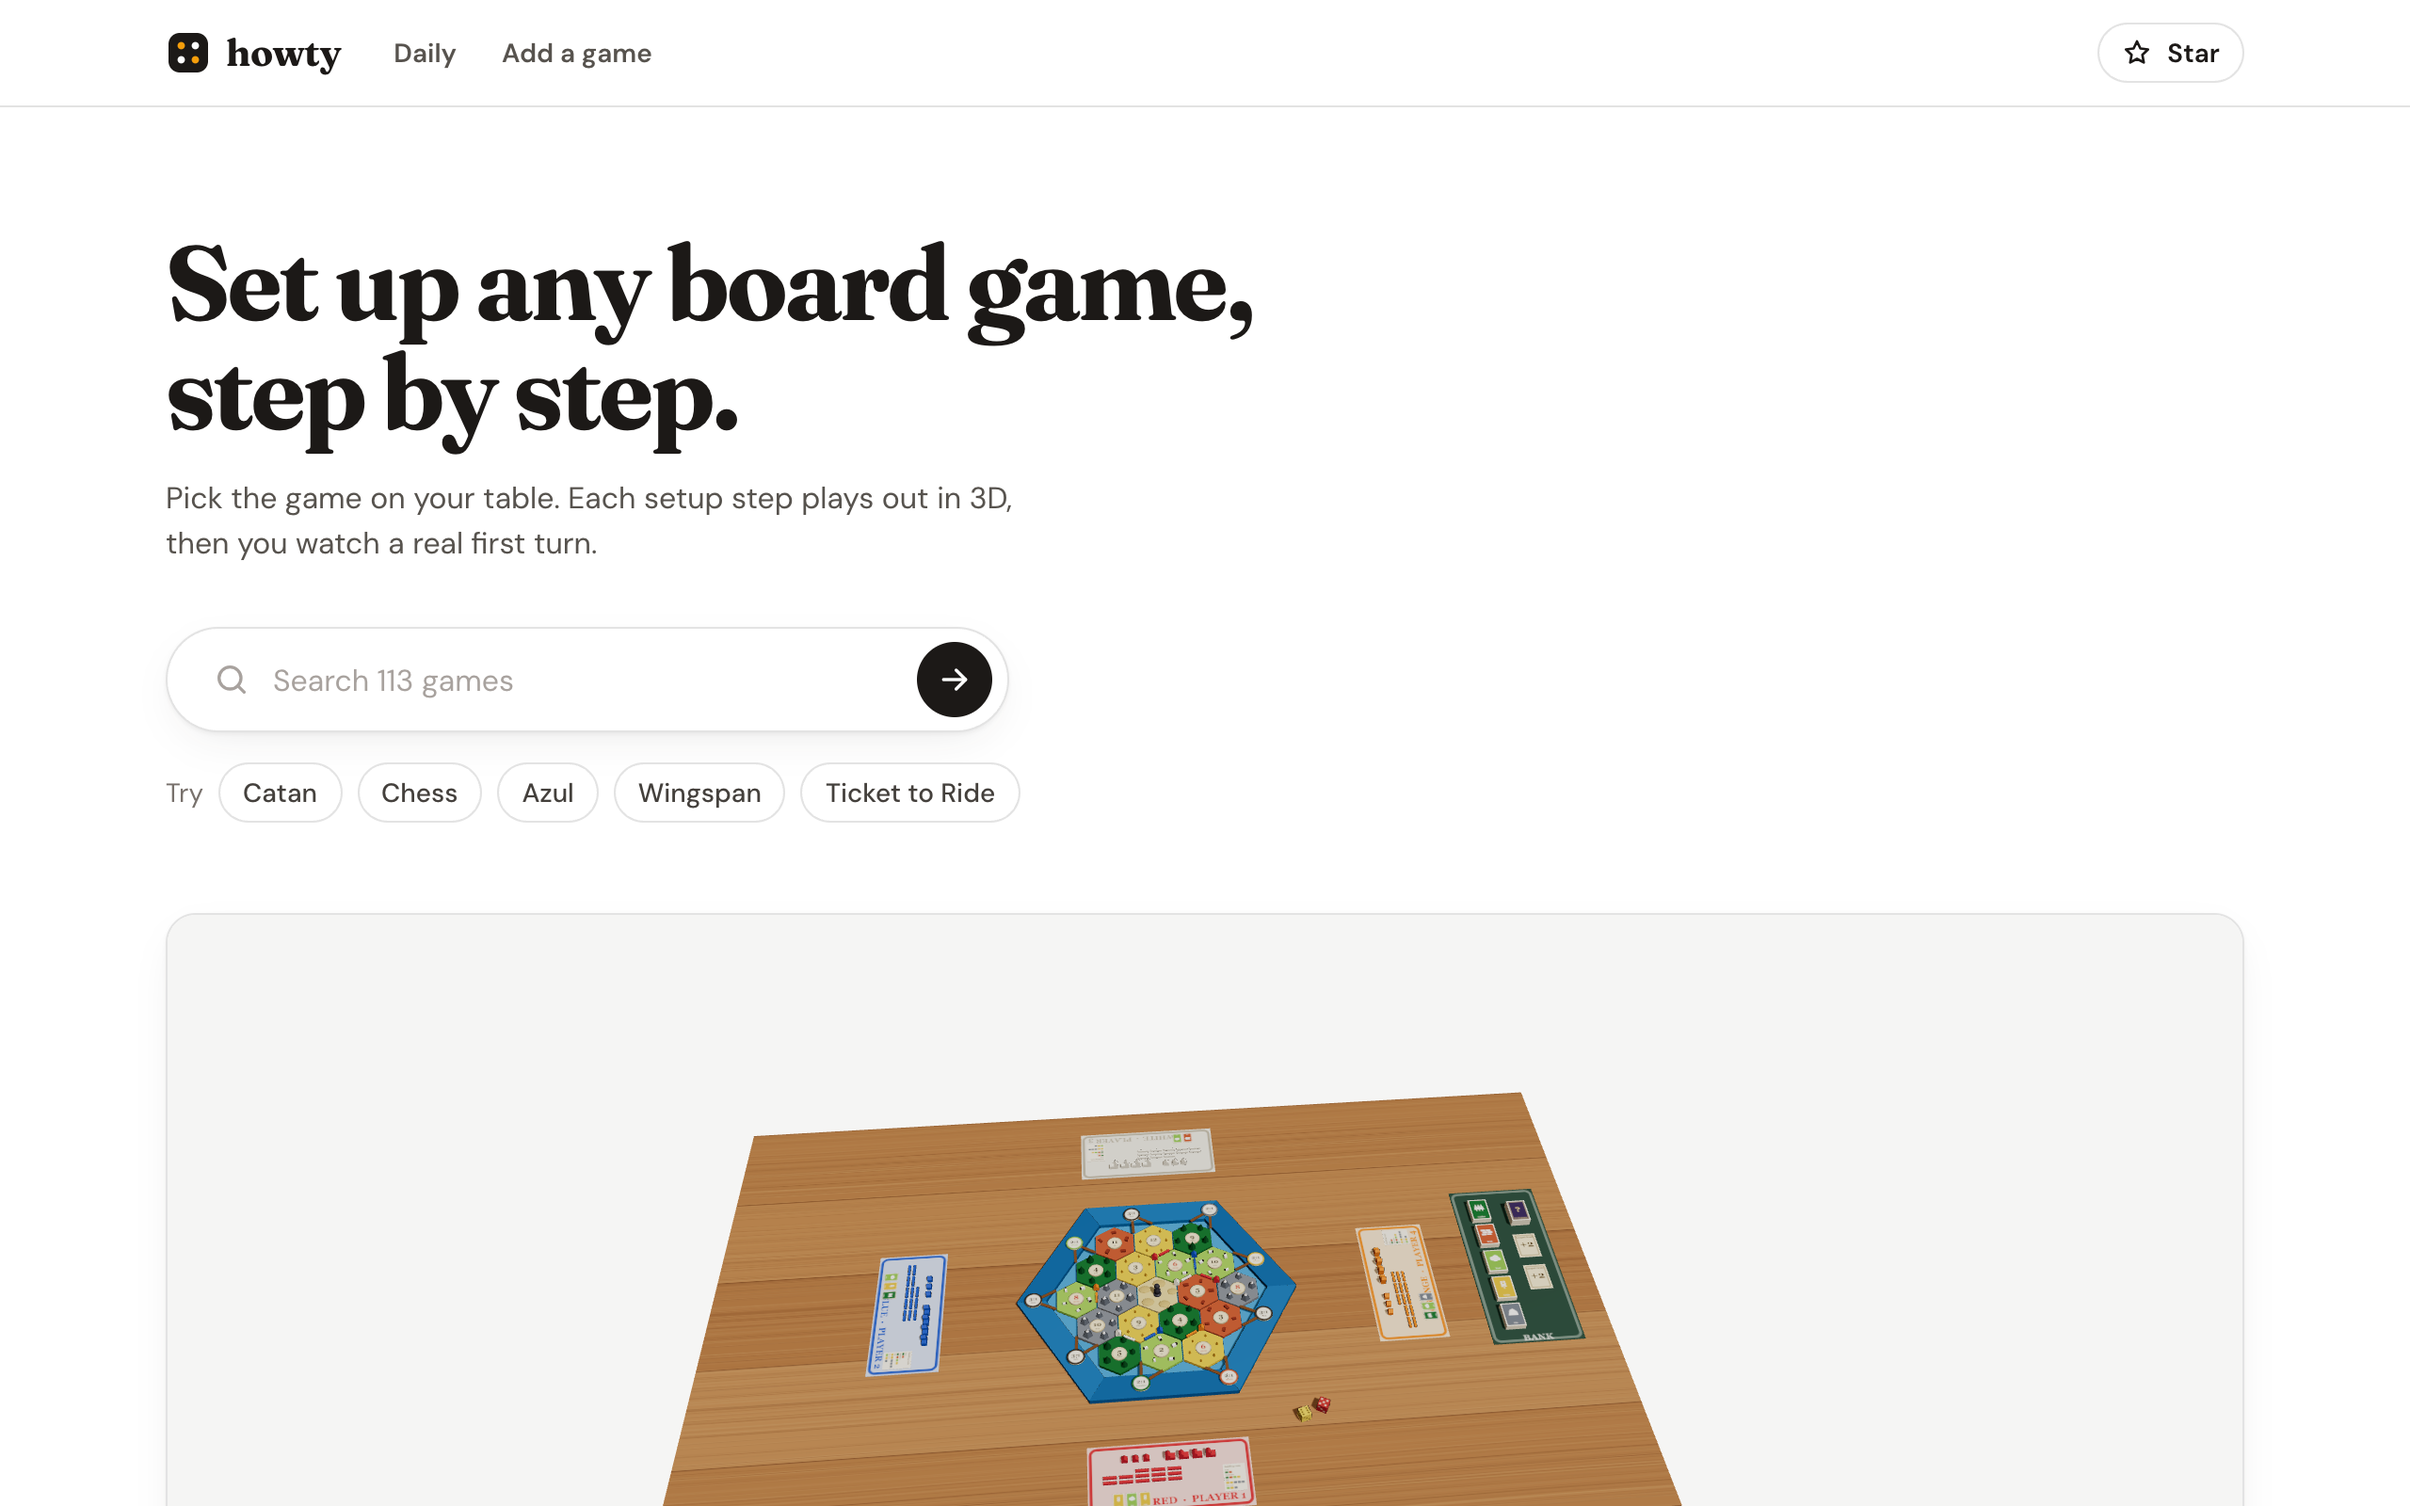
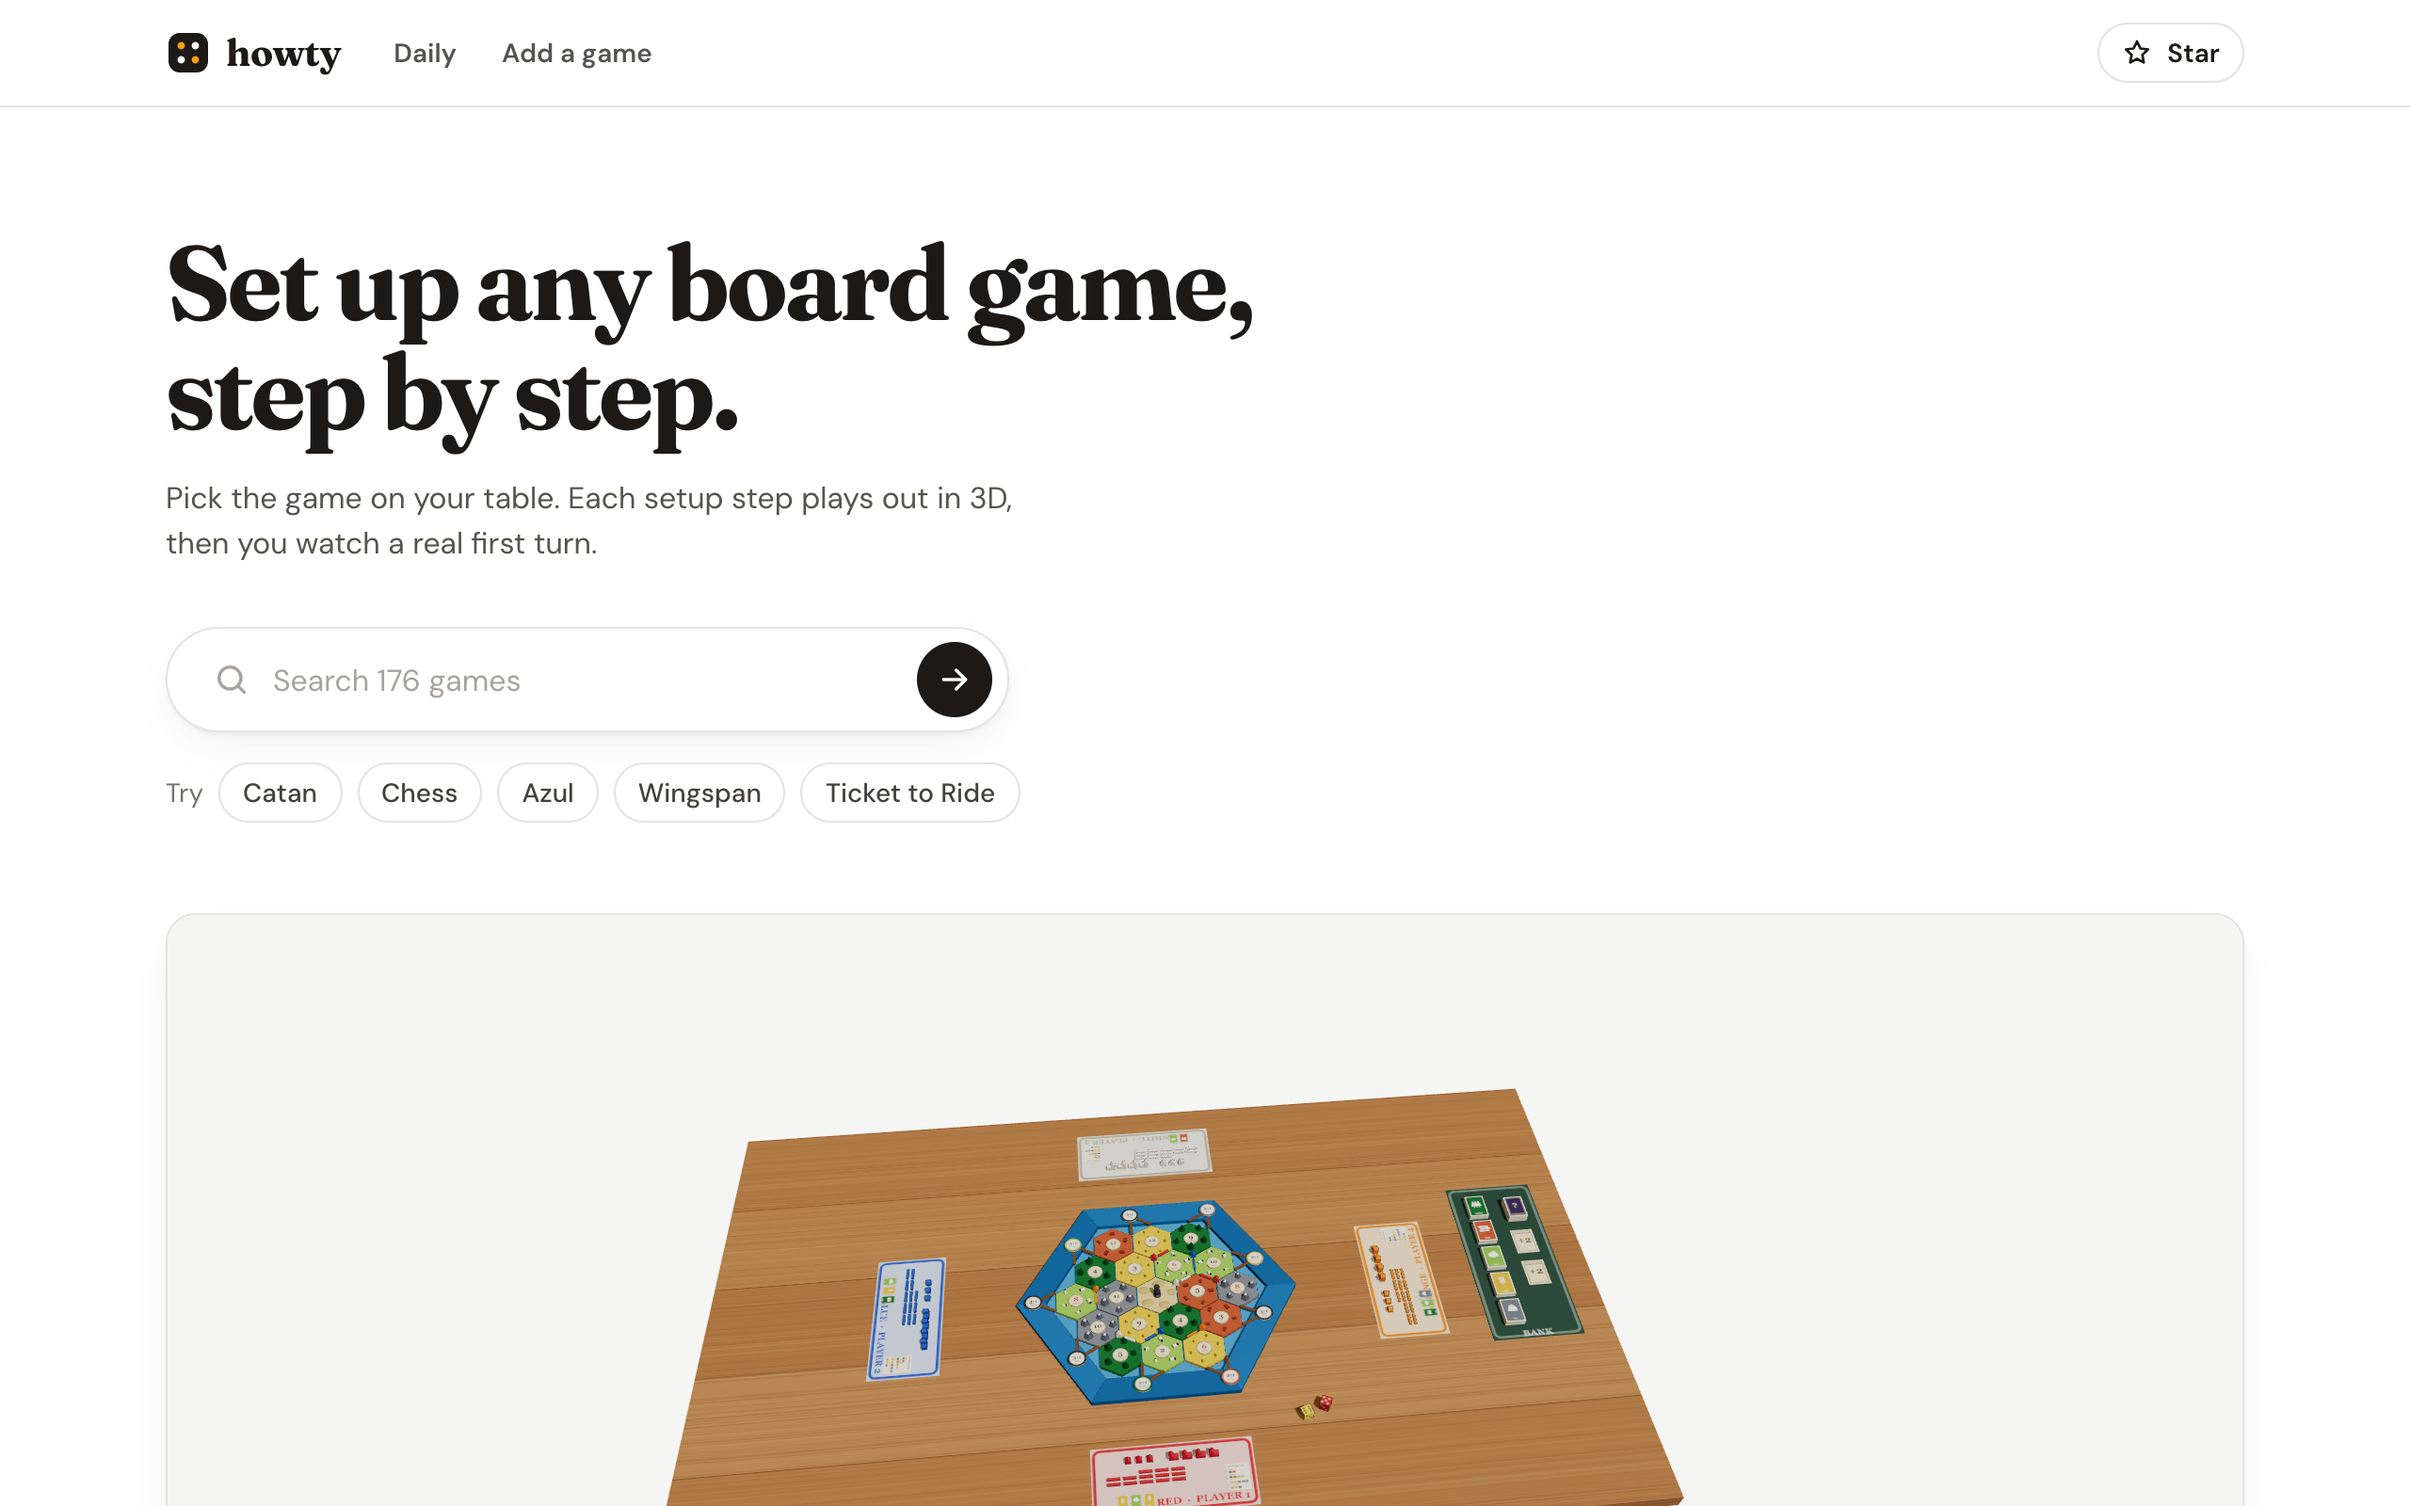
Refresh the README, screenshots and demo for the new features, and draft launch posts

diff --git a/README.md b/README.md
@@ -9,17 +9,28 @@ piece on a 3D table one step at a time, then plays a short first turn. 176 games
 
 <p align="center"><img src="docs/demo.gif" alt="Scrolling the home page, searching for Wingspan, opening its game page, stepping through setup and watching the first turn" width="840" /></p>
 
-- **Runs entirely in the browser.** No backend, no API keys, no AI calls, no tracking. It is a static site.
 - **176 games built in**, from Chess and Catan to Wingspan and Terraforming Mars, plus 63 card games: Hearts, Solitaire, Blackjack and 18 kinds of poker among them.
+- **Teach it hands-free.** One button plays every step by itself and reads it aloud, then the first turn,
+  so the person explaining the game can watch the table instead of the rulebook. Voice commands
+  ("next", "back", "repeat") work too, where the browser supports them.
+- **Bring the whole table in.** Share opens your phone's share sheet and shows a QR code, so everyone can
+  follow the same guide on their own phone.
+- **Works offline.** After one visit every guide opens without a connection, and phones can add Howty to the
+  home screen like an app. Handy in basements and cabins.
+- **Print a checklist.** Every game has a one-page setup checklist, on screen or on paper.
+- **Find it by any name.** Search knows other names (Thirty-One, Klondike, Scum, Settlers), and the library
+  can be browsed by kind: party, co-op, family, strategy, classics, trick-taking, poker and casino.
 - **Add your own.** Paste the setup section of any rulebook and get a 3D table. Share it with a link:
   the rules travel in the link itself, so nothing is uploaded.
-- **Hands-free.** Optional narration and "next / back / repeat" voice commands (where the browser supports them).
 - **Daily table.** A finished setup with the name hidden: one guess, a new table every day, a streak, and a
-  result you can share ([/daily](https://howty.vercel.app/daily)).
+  result you can share as a picture ([/daily](https://howty.vercel.app/daily)).
 - **Your shelf.** Tag games as "own it", "want to learn" or "taught it" and see what you have set up. It is
   saved in your browser only.
-- **Lists.** Filter the library to easy games, two-player games, solo games, quick games and more.
-- **A page per game** (`/g/azul`), with a link to any step (`/g/azul?step=3&players=4`).
+- **A page per game** (`/g/azul`), with a link to any step (`/g/azul?step=3&players=4`). Each page carries its
+  steps as plain text and its own preview image, so search engines and link previews show the real guide.
+- **Runs entirely in the browser.** No backend, no account, no API keys, no AI calls, no cookies. The only
+  measurement is Vercel Web Analytics' anonymous page counts.
+- **Light.** Each game's 3D setup is its own small file, fetched when you open it.
 
 ## Run it
 
@@ -40,10 +51,10 @@ every board, card face and sound is drawn or synthesised in code.
 | --- | --- |
 | `src/engine/` | Game-agnostic engine: schema types, piece animation, camera, audio, voice |
 | `src/components/pieces/` | Reusable 3D primitives (card, stack, die, token, board...) and drawn board art |
-| `src/data/games/` | One file per game. `more/` holds the games written with the table composer |
+| `src/data/games/` | One file per game. `more/` holds the games written with the table composer; `catalog.ts` (generated) lists them all and loads each on demand; `tags.ts` has other names and kinds |
 | `src/custom/` | The rulebook reader behind "Add your own game", and share-link packing |
 | `src/ui/` | Home page, game page, daily table, shared components, icons and illustrations |
-| `scripts/` | Layout checker, index generator, per-game page writer, authoring guide |
+| `scripts/` | Layout checker, index and catalog generators, per-game page and preview-image writer, offline worker, authoring guide |
 
 A game is plain data: a list of steps and a list of pieces, where each piece says where it rests
 from a given step onward. The engine drops, slides, flips and hides pieces to match.
@@ -81,9 +92,15 @@ Most games are about 50 lines using the table composer: you say what goes in the
 sides and in front of each player, and it positions everything, sizes the table and aims the camera.
 See [CONTRIBUTING.md](CONTRIBUTING.md) and [scripts/AUTHORING.md](scripts/AUTHORING.md).
 
-**Rules corrections are the most valuable contribution.** The guides were written from memory and
-have not all been checked against the printed rulebooks; where a number was uncertain the text says
-"check your rulebook". If you spot a mistake, open a "Rules error" issue or a pull request.
+**Rules checks are the most valuable contribution.** The guides were written from memory or from
+public rules references, and none has yet been checked step by step against a printed rulebook. Each game
+page says so and links to a "Verify" issue: if you have the box, check the guide and report back, and the
+page is marked "Checked against the rulebook" with your edition (see `src/data/games/verified.ts`).
+Spotted a mistake? Open a "Rules error" issue or a pull request.
+
+**Want a game added?** [Request it](https://github.com/sasgroundzero/howty/issues/new?template=game-request.md), or
+[vote on open requests](https://github.com/sasgroundzero/howty/issues?q=is%3Aissue+is%3Aopen+label%3Agame-request+sort%3Areactions-%2B1-desc)
+with a thumbs-up. The most-wanted games are built first.
 
 ## Unofficial
 

diff --git a/docs/LAUNCH.md b/docs/LAUNCH.md
@@ -1,0 +1,78 @@
+# Launch drafts
+
+Drafts for announcing Howty. Nothing here has been posted. Read each community's rules first: most
+dislike self-promotion from new accounts, so post from an account that already takes part, answer every
+comment, and space the posts out over a week or two rather than all on one day.
+
+Before posting, check:
+
+- [ ] The live site works on a real phone (search, a game page, Teach it, Share with QR, the daily table)
+- [ ] A handful of popular guides (Catan, Ticket to Ride, Wingspan, Azul, Pandemic) have been checked
+      against the rulebook and marked verified, since rules accuracy is the first thing people will test
+- [ ] Vercel Web Analytics is switched on, so you can see what each post brings in
+- [ ] Optional: a short custom domain
+
+## Show HN (news.ycombinator.com)
+
+Best on a weekday morning, US Eastern time. The title has to be plain; the comment does the explaining.
+
+**Title:** Show HN: Howty – 3D step-by-step setup guides for 176 board and card games
+
+**First comment:**
+
+> I kept losing the first 20 minutes of game night to the setup page of the rulebook, so I built Howty.
+> Pick a game and every piece lands on a 3D table one step at a time, then it plays a short first turn.
+> There's a hands-free mode that reads each step aloud, and a QR code so the whole table can follow on
+> their phones.
+>
+> It's a static site: React, React Three Fiber and Tailwind, no backend, no account, no cookies. Each game
+> is about 50 lines of data written against a small "table composer" that lays out zones, sizes the table
+> and aims the camera, and a checker builds every game at every player count and fails on overlapping
+> pieces. Every board and card is drawn in code; there are no image or model files. Pages are
+> prerendered with the steps as plain text, and preview images are drawn from each game's layout at
+> build time. It works offline after one visit.
+>
+> The honest weak spot: the guides haven't been checked against printed rulebooks yet, and every page
+> says so. If you own a game, checking its guide is the most useful contribution.
+>
+> Code (MIT): https://github.com/sasgroundzero/howty
+
+## r/boardgames
+
+Check the subreddit's self-promotion rules first; some weeks it only allows this in a weekly thread.
+
+**Title:** I made a free site that shows board game setup step by step on a 3D table (176 games, no account)
+
+**Body:**
+
+> Setup is the part of game night nobody enjoys explaining, so I made Howty: pick the game, and each
+> setup step plays out on a 3D table, then it walks through a first turn. There's a hands-free mode that
+> reads the steps aloud, a QR code so everyone can follow on their own phone, a printable checklist, and
+> it works offline.
+>
+> It's free and open source, with no ads and no account. There's also a daily puzzle where you guess the
+> game from a finished setup.
+>
+> These are unofficial, fan-made guides and I'm sure some have mistakes. Every page has a link to report
+> one, and if you have the box I'd love help checking the guides you know well. Which games should I
+> add next?
+>
+> https://howty.vercel.app
+
+## BoardGameGeek (General Gaming forum)
+
+> **Free 3D setup walkthroughs for 176 games, looking for help checking them**
+>
+> I've built Howty, an open-source site that places each setup step on a 3D table and then plays a short
+> first turn. It covers 113 board games and 63 traditional card games. The guides were written from
+> public rules references and have not been checked against the printed rulebooks, which is where I'd
+> value this community's help: each page has a "help check it" link, and checked guides are marked with
+> the edition they were checked against. https://howty.vercel.app
+
+## Short post (X, Bluesky, Threads)
+
+> Spent 20 minutes reading the Catan setup page again? I made Howty: pick a game and every piece lands on
+> a 3D table step by step, then it plays your first turn. 176 games, free, works offline, open source.
+> howty.vercel.app
+
+Attach `docs/demo.gif`, or a screen recording from a phone.
